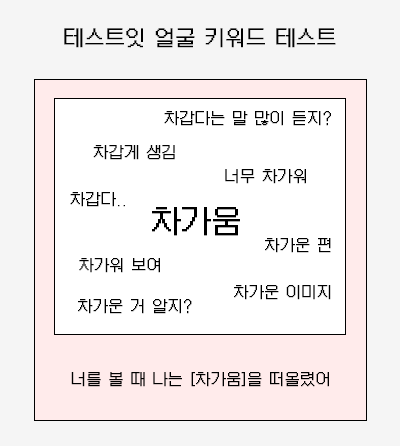
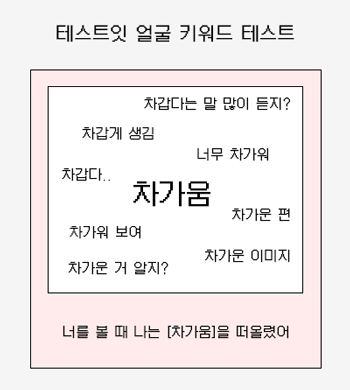
first commit

diff --git a/test140.html b/test140.html
@@ -257,6 +257,14 @@ body {
     .navbar-brand {
         font-size: 2rem;
     }
+.img {
+    display: block;
+    margin: 0 auto;
+    text-align: center;
+    max-width: 100%;
+}
+
+
 }
 
 
